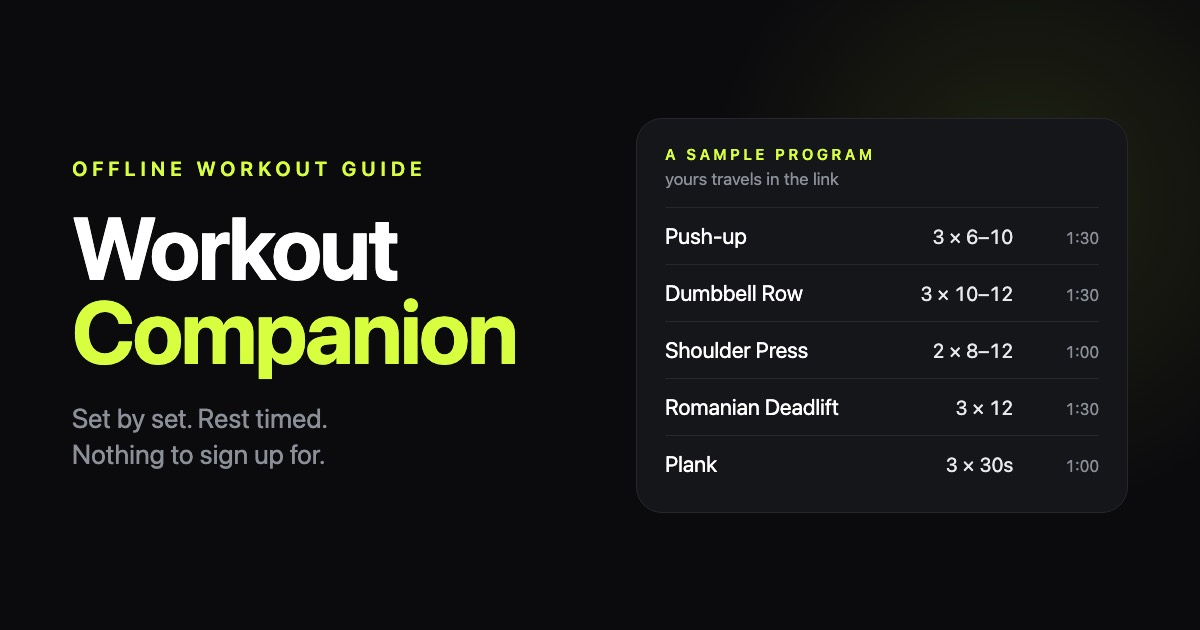
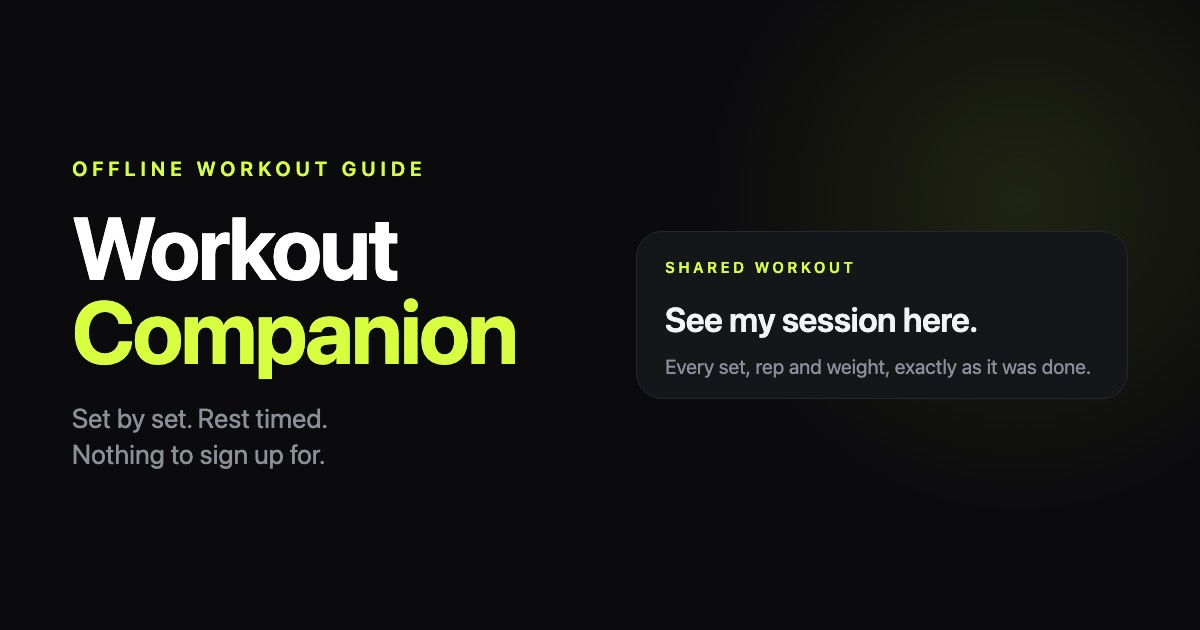
Stop pretending the preview card is a workout
The static card showed a sample program under 'EXAMPLE WORKOUT' (then 'A
SAMPLE PROGRAM'), which reads as a bait in a chat: the real session is in
the link, never in this image. It now says what it is — a shared workout,
open the link.

diff --git a/index.html b/index.html
@@ -28,15 +28,15 @@
       content="An offline workout guide: follow a program set by set, rest timer included. No account needed."
     />
     <meta property="og:url" content="https://sdaveas.github.io/workout-companion/" />
-    <meta property="og:image" content="https://sdaveas.github.io/workout-companion/og.jpg?v=5" />
+    <meta property="og:image" content="https://sdaveas.github.io/workout-companion/og.jpg?v=6" />
     <meta property="og:image:width" content="1200" />
     <meta property="og:image:height" content="630" />
     <meta
       property="og:image:alt"
-      content="A dark card titled Workout Companion beside a sample program: five exercises with their sets, reps and rest times."
+      content="A dark card titled Workout Companion beside a note reading See my session here, with every set, rep and weight."
     />
     <meta name="twitter:card" content="summary_large_image" />
-    <meta name="twitter:image" content="https://sdaveas.github.io/workout-companion/og.jpg?v=5" />
+    <meta name="twitter:image" content="https://sdaveas.github.io/workout-companion/og.jpg?v=6" />
   </head>
   <body>
     <div id="root"></div>

diff --git a/src/lib/share.ts b/src/lib/share.ts
@@ -498,7 +498,7 @@ export async function decodeProgram(payload: string): Promise<ParseResult> {
  * so a fresh query string is the only way to make them look again; the program
  * itself still lives in the hash and never touches the server.
  */
-export const SHARE_VERSION = 5;
+export const SHARE_VERSION = 6;
 
 export function shareUrl(payload: string, base = location.origin + location.pathname): string {
   return `${base}?v=${SHARE_VERSION}${SHARE_PATH}${payload}`;

diff --git a/src/lib/share.test.ts b/src/lib/share.test.ts
@@ -79,7 +79,7 @@ describe('share link', () => {
 
   it('carries a preview version so a changed card is re-fetched', async () => {
     const url = shareUrl(await encodeProgram(program), 'https://example.com/app/');
-    expect(url.startsWith('https://example.com/app/?v=5#/add/')).toBe(true);
+    expect(url.startsWith('https://example.com/app/?v=6#/add/')).toBe(true);
   });
 
   it('keeps a realistic program link short', async () => {
